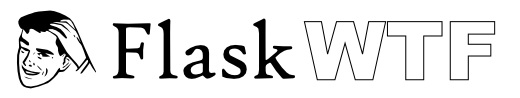
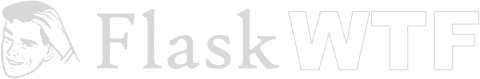
20210202: add: images in white

diff --git a/docs/Coding/Python/Frameworks/Flask/Extensions/forms_flask_wtf.md b/docs/Coding/Python/Frameworks/Flask/Extensions/forms_flask_wtf.md
@@ -52,7 +52,7 @@ From the code we got:
 2. The 4 type of field are represented as classes and they came form `wtforms`, since the `Flask-WTF` extension does not provide customized versions.  
 3. Each instance or object of the field class has as first argument a label, and the second and optional argument will be the validators, in this case we use the validator `DataRequired()`
 
-### From Templates
+### Form Templates
 
 We have the form, now 2 things are missing the template and the view function, in this section we will talk about the template.
 
